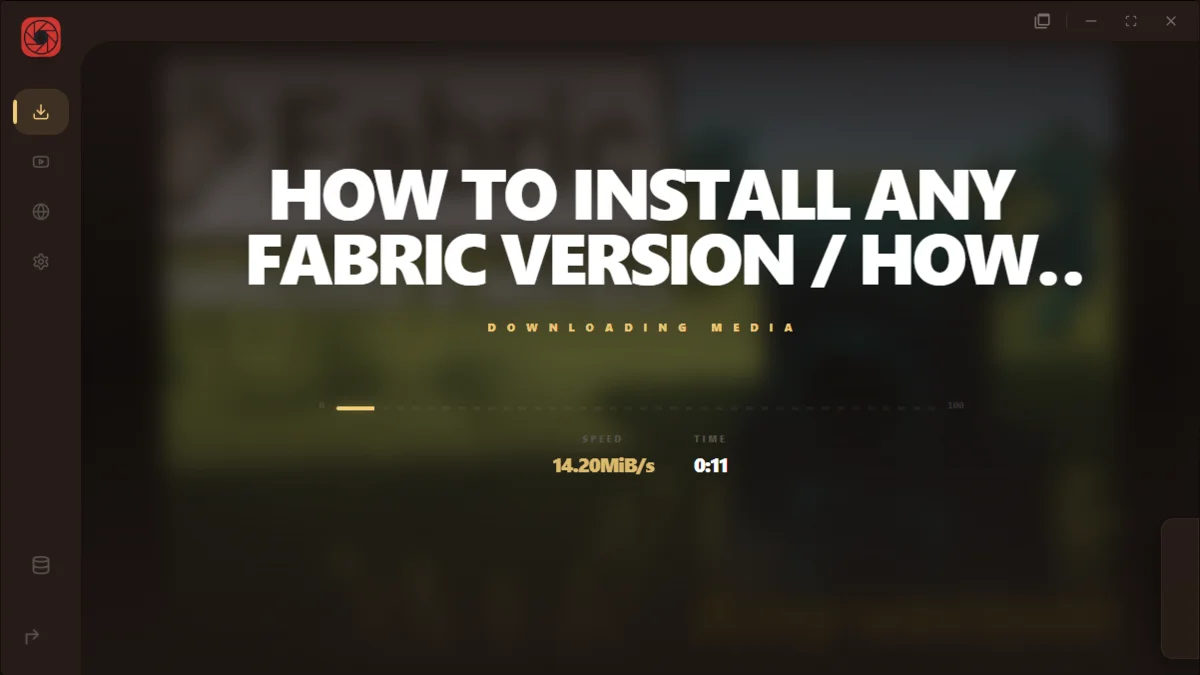
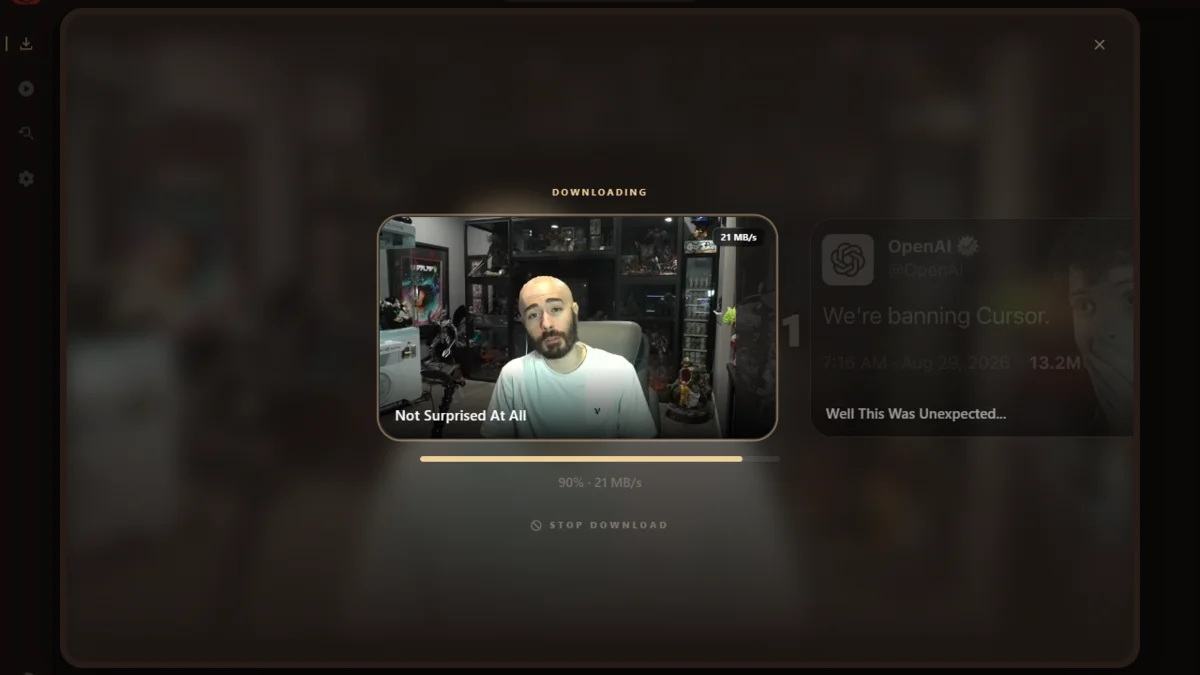
Ship RuForge 0.4.0.
Bump versions and updater manifest, finish Discord presence timer/staleness polish, refresh website hero screenshots and changelog, and drain the release graph for this cycle.

diff --git a/src/lib/discordPresenceTransport.ts b/src/lib/discordPresenceTransport.ts
@@ -25,6 +25,21 @@ type DiscordActivityPayload = {
   smallText: string | null;
 };
 
+/** Keep browse elapsed time across tab swaps (library ↔ explorer ↔ settings). */
+let browseSessionStartedAt: number | null = null;
+
+type MediaSessionAnchor = {
+  identity: string;
+  startTimestamp: number;
+  endTimestamp: number | null;
+};
+
+/** Stable progress bar while the same track plays (ignore brief currentTime=0 flickers). */
+let mediaSession: MediaSessionAnchor | null = null;
+
+/** Must stay under Rust STALE_AFTER (3 × 15s floor). */
+const HEARTBEAT_MS = 15_000;
+
 function isMainPresenceWindow(): boolean {
   try {
     const label = getCurrentWindow().label;
@@ -62,6 +77,11 @@ function nowUnix(): number {
   return Math.floor(Date.now() / 1000);
 }
 
+function resetPresenceSessions() {
+  browseSessionStartedAt = null;
+  mediaSession = null;
+}
+
 function baseAssets(): Pick<
   DiscordActivityPayload,
   "largeImage" | "largeText" | "smallImage" | "smallText"
@@ -84,31 +104,76 @@ function mediaPayload(
   currentTime: number,
   duration: number,
 ): DiscordActivityPayload {
-  let startTimestamp: number | null = null;
-  let endTimestamp: number | null = null;
-  if (!paused) {
-    const t = Math.max(0, currentTime);
-    startTimestamp = nowUnix() - Math.floor(t);
-    if (duration > 0 && Number.isFinite(duration)) {
-      endTimestamp = startTimestamp + Math.floor(duration);
-    }
+  browseSessionStartedAt = null;
+
+  if (paused) {
+    mediaSession = null;
+    return {
+      kind,
+      details,
+      state,
+      startTimestamp: null,
+      endTimestamp: null,
+      ...baseAssets(),
+    };
   }
+
+  const t = Math.max(0, currentTime);
+  const dur = duration > 0 && Number.isFinite(duration) ? Math.floor(duration) : 0;
+  const identity = `${kind}\0${details}\0${state ?? ""}\0${dur}`;
+  const computedStart = nowUnix() - Math.floor(t);
+  const computedEnd = dur > 0 ? computedStart + dur : null;
+
+  // Tab swaps can briefly report 0:00 while the same track is still playing.
+  if (
+    mediaSession &&
+    mediaSession.identity === identity &&
+    t < 1.5 &&
+    nowUnix() - mediaSession.startTimestamp > 3
+  ) {
+    return {
+      kind,
+      details,
+      state,
+      startTimestamp: mediaSession.startTimestamp,
+      endTimestamp: mediaSession.endTimestamp,
+      ...baseAssets(),
+    };
+  }
+
+  if (
+    !mediaSession ||
+    mediaSession.identity !== identity ||
+    Math.abs(mediaSession.startTimestamp - computedStart) > 2
+  ) {
+    mediaSession = {
+      identity,
+      startTimestamp: computedStart,
+      endTimestamp: computedEnd,
+    };
+  }
+
   return {
     kind,
     details,
     state,
-    startTimestamp,
-    endTimestamp,
+    startTimestamp: mediaSession.startTimestamp,
+    endTimestamp: mediaSession.endTimestamp,
     ...baseAssets(),
   };
 }
 
 function browsePayload(details: string): DiscordActivityPayload {
+  mediaSession = null;
+  if (browseSessionStartedAt == null) {
+    browseSessionStartedAt = nowUnix();
+  }
   return {
     kind: "playing",
     details,
     state: null,
-    startTimestamp: null,
+    // Stable start so Discord elapsed time does not reset on every page swap.
+    startTimestamp: browseSessionStartedAt,
     endTimestamp: null,
     ...baseAssets(),
   };
@@ -231,11 +296,13 @@ export function setupDiscordPresenceTransport(): () => void {
         if (lastEnabled !== enabled) {
           await invoke("discord_rpc_set_enabled", { enabled });
           lastEnabled = enabled;
+          if (!enabled) resetPresenceSessions();
         }
         if (!enabled) continue;
 
         const snapshot = buildSnapshot();
         if (!snapshot) {
+          resetPresenceSessions();
           await invoke("discord_rpc_clear_activity");
         } else {
           await invoke("discord_rpc_set_activity", { payload: snapshot });
@@ -259,6 +326,7 @@ export function setupDiscordPresenceTransport(): () => void {
   refresh();
   const unsubBridge = subscribeMainPlaybackBridge(refresh);
   const unsubStore = useRuforgeStore.subscribe(refresh);
+  const heartbeat = window.setInterval(refresh, HEARTBEAT_MS);
 
   void invoke<DiscordRpcStatus>("discord_rpc_status")
     .then((status) => {
@@ -269,8 +337,10 @@ export function setupDiscordPresenceTransport(): () => void {
     .catch((err) => console.error("[discord-presence] status", err));
 
   return () => {
+    window.clearInterval(heartbeat);
     unsubBridge();
     unsubStore();
+    resetPresenceSessions();
   };
 }
 

diff --git a/src/components/dev-captures/DevCaptureAnnotateModal.tsx b/src/components/dev-captures/DevCaptureAnnotateModal.tsx
@@ -235,10 +235,12 @@ export function DevCaptureAnnotateModal({
   };
 
   const copyFilename = async () => {
+    const target = entry ?? lastEntryRef.current;
+    if (!target) return;
     try {
-      await writeText(entry.name);
+      await writeText(target.name);
     } catch {
-      await navigator.clipboard.writeText(entry.name);
+      await navigator.clipboard.writeText(target.name);
     }
     setCopiedName(true);
   };
@@ -327,7 +329,8 @@ export function DevCaptureAnnotateModal({
 
   const handleSave = async () => {
     const img = imageRef.current;
-    if (!img || !imageSize || saving) return;
+    const target = entry ?? lastEntryRef.current;
+    if (!img || !imageSize || saving || !target) return;
     setSaving(true);
     try {
       const offscreen = document.createElement("canvas");
@@ -352,10 +355,10 @@ export function DevCaptureAnnotateModal({
       });
 
       await invoke("write_dev_capture_png", {
-        path: entry.path,
+        path: target.path,
         bytes: Array.from(bytes),
       });
-      onSaved(entry.path);
+      onSaved(target.path);
     } catch (e) {
       console.error("[dev-captures] save failed", e);
       setSaving(false);

diff --git a/src/components/music/MusicHomeView.tsx b/src/components/music/MusicHomeView.tsx
@@ -655,14 +655,14 @@ export function MusicHomeView({
                     </h2>
                     <button
                       type="button"
-                      onClick={openMusicLiked}
+                      onClick={() => openMusicLiked()}
                       className="text-xs font-medium shrink-0 hover:underline"
                       style={{ color: "var(--music-text-secondary)" }}
                     >
                       See all
                     </button>
                   </div>
-                  <LikedSongsCard files={likedTracks} onClick={openMusicLiked} />
+                  <LikedSongsCard files={likedTracks} onClick={() => openMusicLiked()} />
                 </motion.section>
               )}
             </AnimatePresence>

diff --git a/src/components/music-mini/useMusicMiniPlayback.ts b/src/components/music-mini/useMusicMiniPlayback.ts
@@ -37,6 +37,17 @@ import {
   restoreQueueFromBase,
   writeMusicShuffleOnToLs,
 } from "@/components/music/musicShuffleQueue";
+import {
+  beginListenSession,
+  endListenSession,
+  flushListenSessionAccum,
+  onListenTimeUpdateTick,
+  pauseListenAccumulator,
+  setPendingListenEndReason,
+  stageHandoffListenEventId,
+  takePendingListenEndReason,
+  tickListenAccumulator,
+} from "@/lib/musicListenSession";
 
 export type TrackDirection = "next" | "prev" | null;
 

diff --git a/docs/agents/release/versioner.html b/docs/agents/release/versioner.html
@@ -483,6 +483,12 @@
       },
       "versions": [
         {
+          "id": "v0.4.0",
+          "label": "v0.4.0 - Settings popup, download dock, virtual playlists, lyrics, Discord",
+          "status": "finished",
+          "manifest": "versions/version-0.4.0.json"
+        },
+        {
           "id": "v0.3.0",
           "label": "v0.3.0 - Media Session, music crossfade, desktop island overlay",
           "status": "finished",

diff --git a/src/components/MorphLabelMenu.tsx b/src/components/MorphLabelMenu.tsx
@@ -1,4 +1,4 @@
-import { useEffect, useMemo, useRef, useState } from "react";
+import { useEffect, useMemo, useRef } from "react";
 import { motion, useReducedMotion } from "motion/react";
 import { ChevronDown } from "lucide-react";
 import {

diff --git a/src-tauri/src/discord_rpc/mod.rs b/src-tauri/src/discord_rpc/mod.rs
@@ -11,6 +11,8 @@ use serde::{Deserialize, Serialize};
 
 pub const CLIENT_ID: &str = "1535637767730626720";
 pub const SET_ACTIVITY_FLOOR: Duration = Duration::from_secs(15);
+/// Clear Discord card if the main webview stops heartbeating (destroyed / hung).
+pub const STALE_AFTER: Duration = Duration::from_secs(45);
 
 const BACKOFF_STEPS: &[Duration] = &[
     Duration::from_secs(2),
@@ -229,6 +231,7 @@ fn worker_loop(rx: Receiver<WorkerMsg>, status: Arc<Mutex<SharedStatus>>) {
     let mut dirty = false;
     let mut force_flush = false;
     let mut last_send_at: Option<Instant> = None;
+    let mut last_ui_at: Option<Instant> = None;
     let mut backoff_idx = 0usize;
     let mut next_connect_at = Instant::now();
     let mut shutting_down = false;
@@ -239,12 +242,14 @@ fn worker_loop(rx: Receiver<WorkerMsg>, status: Arc<Mutex<SharedStatus>>) {
                 Ok(WorkerMsg::SetEnabled(next)) => {
                     enabled = next;
                     set_status(&status, |s| s.enabled = next);
+                    last_ui_at = Some(Instant::now());
                     if !next {
                         desired = None;
                         dirty = false;
                         force_flush = true;
                         backoff_idx = 0;
                         last_send_at = None;
+                        last_ui_at = None;
                     } else {
                         // Remount / re-enable must re-issue SET_ACTIVITY even when the
                         // snapshot is unchanged. Discord may have dropped the card while
@@ -259,6 +264,8 @@ fn worker_loop(rx: Receiver<WorkerMsg>, status: Arc<Mutex<SharedStatus>>) {
                     }
                 }
                 Ok(WorkerMsg::SetActivity(payload)) => {
+                    // Heartbeat even when payload matches last_sent (UI still alive).
+                    last_ui_at = Some(Instant::now());
                     if Some(&payload) == last_sent.as_ref() && Some(&payload) == desired.as_ref() {
                         continue;
                     }
@@ -266,6 +273,7 @@ fn worker_loop(rx: Receiver<WorkerMsg>, status: Arc<Mutex<SharedStatus>>) {
                     dirty = true;
                 }
                 Ok(WorkerMsg::Clear) => {
+                    last_ui_at = Some(Instant::now());
                     desired = None;
                     dirty = false;
                     force_flush = true;
@@ -310,6 +318,18 @@ fn worker_loop(rx: Receiver<WorkerMsg>, status: Arc<Mutex<SharedStatus>>) {
             }
             thread::sleep(WORKER_TICK);
             continue;
+        }
+
+        // Main webview gone / hung: drop the card so Discord does not keep stale presence.
+        if last_sent.is_some()
+            && last_ui_at
+                .map(|t| t.elapsed() >= STALE_AFTER)
+                .unwrap_or(false)
+        {
+            desired = None;
+            dirty = false;
+            force_flush = true;
+            last_ui_at = None;
         }
 
         if client.is_none() {

diff --git a/STATE.md b/STATE.md
@@ -2,15 +2,15 @@
 
 > Live cursor. Mint reads this FIRST, then `AGENTS.md`. Update LAST after user-visible app behavior that will ship. If this file and the code disagree, the code wins: fix this file forward. Never git-restore a dirty tree to match it.
 
-Shipping version: 0.3.1 (unreleased)
+Shipping version: 0.4.1 (unreleased)
 
-Last shipped to users: 0.3.0
+Last shipped to users: 0.4.0
 
-Last updated: 2026-08-30 (Unreleased log)
+Last updated: 2026-08-30 (shipped 0.4.0)
 
-Status: 0.3.0 live on GitHub and updater.json. 0.3.1 in tree: Settings popup, Discord presence (gated 0.4.0 / Debugging), SponsorBlock learning, downloader hero. Companion still developer-gated on localhost.
+Status: 0.4.0 live on GitHub and updater.json. Settings popup, download rail dock, virtual playlists, lyrics / Now Playing rail, Discord Rich Presence, accent picker shipped. Companion still developer-gated on localhost.
 
-Closed release notes for 0.3.0 and earlier: `docs/agents/release/versions/`. Do not paste them back into this file.
+Closed release notes for 0.4.0 and earlier: `docs/agents/release/versions/`. Do not paste them back into this file.
 
 ## Unreleased
 
@@ -29,7 +29,7 @@ Rules: root `AGENTS.md` → **How to log Unreleased**.
 
 ## Now
 
-Settings is a centered popup with categorized top tabs and search. Download is a rail dock plus expandable hero overlay; library is the default tab. Discord Rich Presence is in tree (reload fix landed). Before public Discord ship: staleness guard (Next 1). Companion Browser V1 remains gated. Other priorities: storage cap, main-app nav restructure.
+0.4.0 is out. Next focus: storage cap before enqueue, main-app nav restructure, website marketing polish after screenshots.
 
 Linux: local `tauri dev` only (asset scopes + `src/platformPaths.ts`). Not a shipped target. Windows dev: `npm run dev:app`.
 
@@ -39,9 +39,9 @@ Linux: local `tauri dev` only (asset scopes + `src/platformPaths.ts`). Not a shi
 
 ## Next 3 (priority order)
 
-1. Discord Rich Presence staleness guard: clear presence if no snapshot within N×15s (destroyed main webview can leave a stale card). Land before Discord ships to users.
-2. Storage cap before enqueue (#10). Block when estimate exceeds free disk.
-3. Main-app nav restructure: RuForge | Movies & Shows | Music mode switcher + MoviesShowsShell.
+1. Storage cap before enqueue (#10). Block when estimate exceeds free disk.
+2. Main-app nav restructure: RuForge | Movies & Shows | Music mode switcher + MoviesShowsShell.
+3. Website hero / marketing pass (3-slide screenshots already in tree).
 
 ## Notes (not P0)
 

diff --git a/website/src/content/releases/v0-4-0.md b/website/src/content/releases/v0-4-0.md
@@ -1,0 +1,24 @@
+---
+version: "0.4.0"
+date: 2026-08-30
+additions:
+  - "Downloads: Rail dock overlay with immersive prepare / download / finish hero and dock morph"
+  - "Downloads: Multi-link held staging, batch Stop/Clear, and transfer progress on the carousel"
+  - "Settings: Centered popup with categorized top tabs and settings search"
+  - "Library: Virtual playlists with Watch Later, create/add/remove, and detail view"
+  - "Music: Synced or plain lyrics with cache, lookup, and karaoke mic toggle"
+  - "Music: Now Playing right rail (lyrics peek, related, about, credits, next up)"
+  - "Music: Sticky shuffle like Spotify; Spotify-style center transport"
+  - "Discord: Optional Rich Presence (playback, downloads, browsing) with privacy toggles; off by default"
+  - "Appearance: Custom dark accent color picker beside the Accent Color swatch"
+  - "Chrome: Overlay rf-scrollbar thumb; native WebView2 bars hidden"
+fixes:
+  - "Downloads: Internal cookie mode no longer hangs on prepare; queued hydrations serialize"
+  - "Downloads: Held multi-link no longer fakes Preparing; Stop and Clear dismiss the batch"
+  - "Discord: Browse elapsed time stays stable across tab swaps; stale presence clears after 45s"
+  - "Library: Deleted videos no longer return as ghost cards with broken thumbnails"
+  - "Island: Hide compact Dynamic Island when you are already on the owning surface"
+  - "Playback: Loop mode survives skip, previous, and refresh"
+  - "Volume: Quadratic gain taper so low slider values are actually quiet"
+  - "SponsorBlock: Clear segments on track change; Music owns audio learning/auto-skip"
+---
